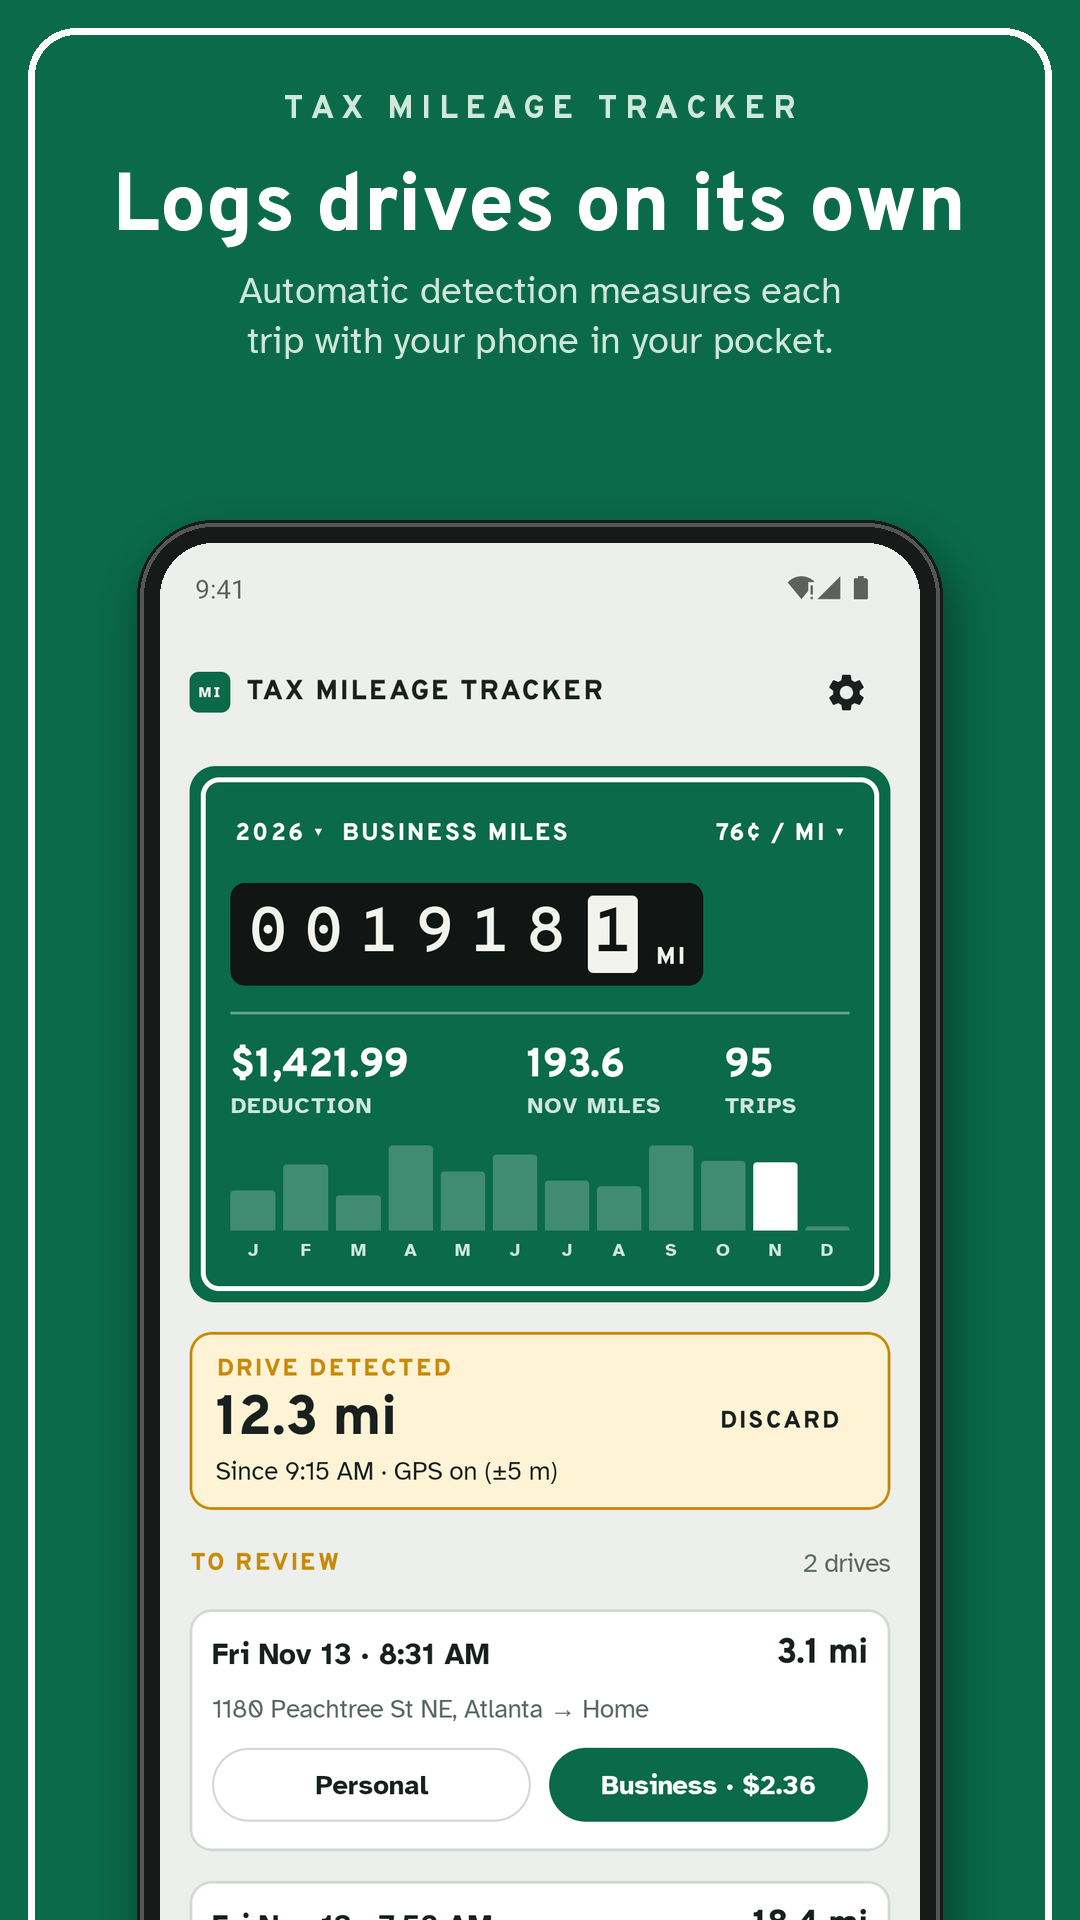
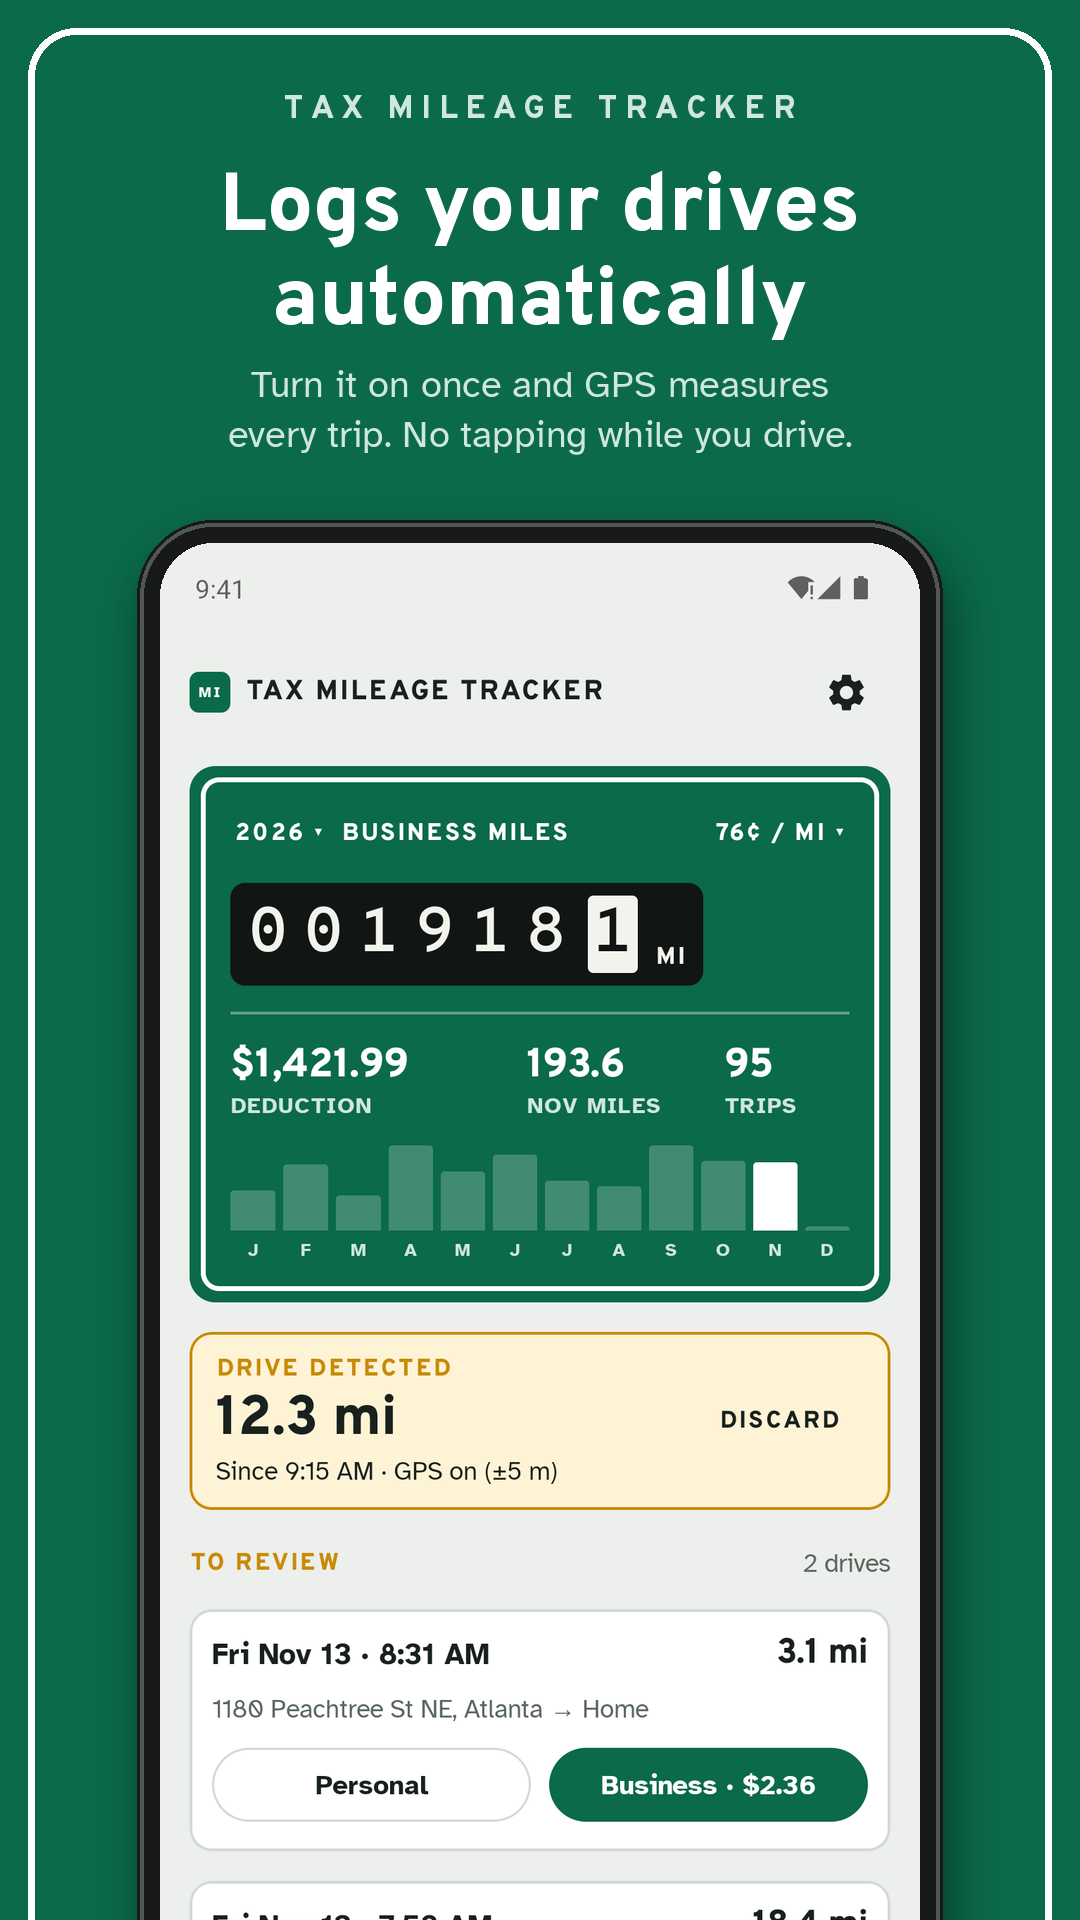
Store slide 1: clearer caption for automatic detection
Claude-Session: https://claude.ai/code/session_01NV7369TV3DByZaPkANa13k

Changed region(s): [[0.0917, 0.0625, 0.8861, 0.25]]

diff --git a/android/store-listing/compose_play.py b/android/store-listing/compose_play.py
@@ -14,7 +14,7 @@ BODY = FONTS + "atkinson_regular.ttf"
 GREEN, DARK, SOFT, WHITE = (10, 106, 74), (14, 19, 17), (207, 231, 220), (255, 255, 255)
 
 SLIDES = [   # upload order: the first three tell the core story
-    ("1-drive-detected", "Logs drives on its own", "Automatic detection measures each trip with your phone in your pocket.", GREEN),
+    ("1-drive-detected", "Logs your drives automatically", "Turn it on once and GPS measures every trip. No tapping while you drive.", GREEN),
     ("2-review", "Business or personal? One tap.", "GPS miles and addresses fill in. Pick a purpose and save.", GREEN),
     ("3-home", "Every business mile, added up", "Your miles and IRS deduction for the year, at a glance.", GREEN),
     ("6-report", "A tax report, ready to hand over", "Totals, Schedule C vehicle miles, parking and tolls, and every trip, as a PDF.", GREEN),

diff --git a/ios/store-listing/compose_store.py b/ios/store-listing/compose_store.py
@@ -21,7 +21,7 @@ SOFT = (207, 231, 220)
 # Upload order. Only the first three show in search results, so they tell the core story:
 # the app logs the drive, you tap Business, and the year adds up.
 SLIDES = [
-    ("2-drive-detected", "Logs drives on its own", "Automatic detection measures each trip with your phone in your pocket.", GREEN),
+    ("2-drive-detected", "Logs your drives automatically", "Turn it on once and GPS measures every trip. No tapping while you drive.", GREEN),
     ("3-review", "Business or personal? One tap.", "GPS miles and addresses fill in. Add the purpose and save.", GREEN),
     ("1-home", "Every business mile, added up", "Your miles and IRS deduction for the year, at a glance.", GREEN),
     ("6-report", "A tax report, ready to hand over", "Totals, Schedule C vehicle miles, parking and tolls, and every trip, as a PDF.", GREEN),
